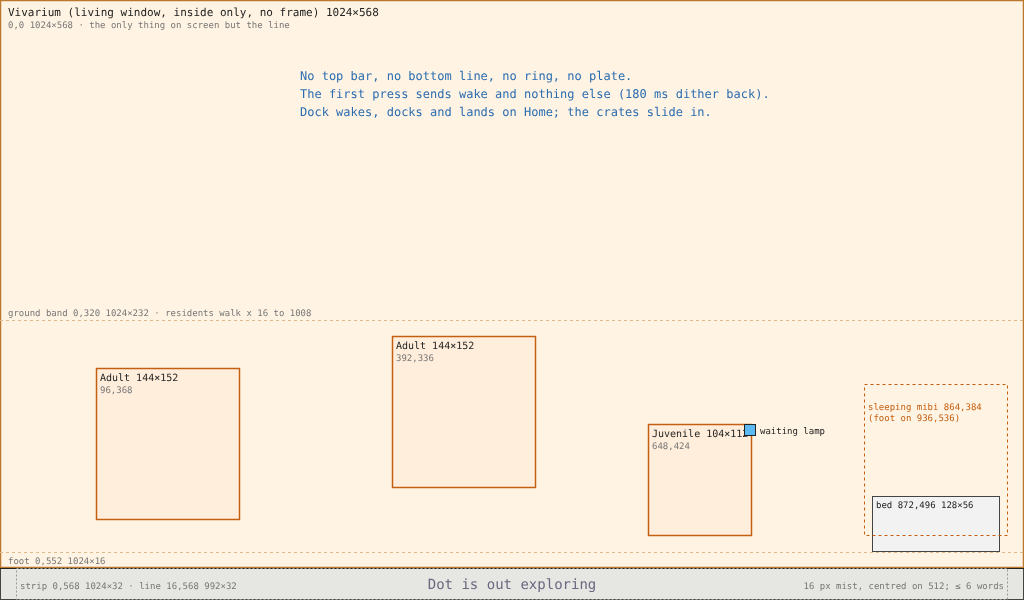
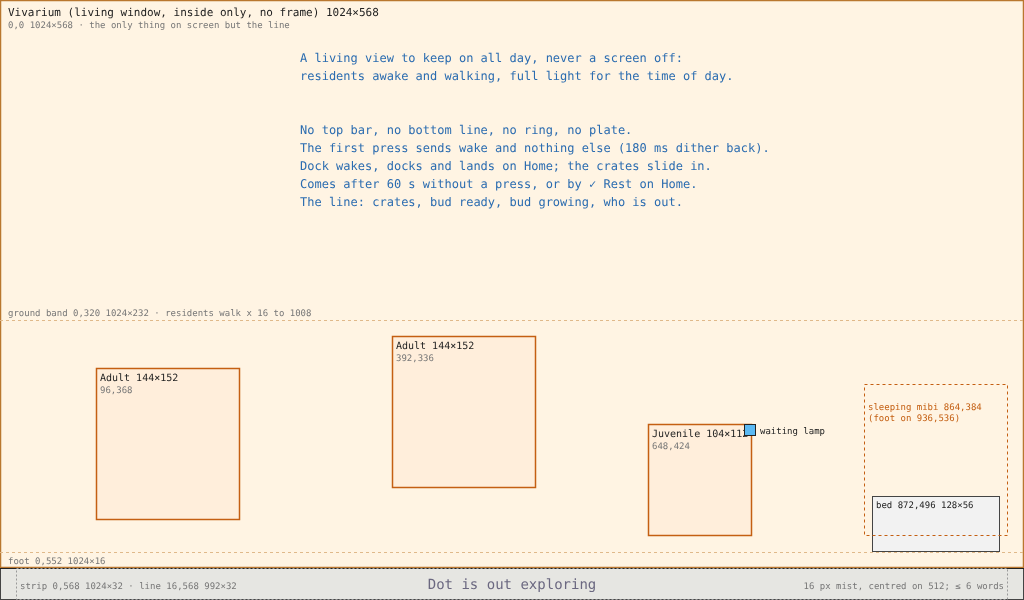
L2.2 spec, pass 2: the owner's answers written in as decided (the structure; ◀ on a resident to the nearest one on its left; the 60 s idle timer; the order of Idle's line) and taken out of the open questions; Idle stated as the living view kept on all day, never a screen off; the Home wireframe's co

Changed region(s): [[0.2812, 0.09, 0.75, 0.36]]

diff --git a/design/style-guide/station-layouts.md b/design/style-guide/station-layouts.md
@@ -193,7 +193,7 @@ The focused tab adds the focus ring in the `focus` role, in its tab shape (State
 
 ### The vocabulary (closed)
 
-The screen layer draws every screen from one closed set of words ([technical architecture §5.1](../proposals/technical-architecture.md)): frame, top bar, bottom line, message plate, focus ring, panel, stamp label, chapter rail, chapter page, list, specimen, living window, ribbon, Companion HUD, map viewport. A new word comes back to the UI designer and the architect. What a screen builds from them (decided by the UI designer, 2026-10-08, on Home):
+The LVGL face draws every screen from one closed set of words, one C module a word under the face's `vocab/`, shared with the Companion and the Caddy where they are common ([lvgl-switch.md §2.2](../proposals/lvgl-switch.md), after [technical architecture §5.1](../proposals/technical-architecture.md); *corrected, 2026-10-09: was "the screen layer", the JavaScript layer now deprecated*): frame, top bar, bottom line, message plate, focus ring, panel, stamp label, chapter rail, chapter page, list, specimen, living window, ribbon, Companion HUD, map viewport. A new word comes back to the UI designer and the architect. What a screen builds from them, bound in the face's `screens/` table (decided by the UI designer, 2026-10-08, on Home):
 
 - **Module** is a build of **panel**, not a new word: the instrument panel (`panel` fill, `hairline` edge, `bevel` top) holding one engraved word, one 12×12 lamp and its objects as sprites. Home's four modules are the only modules.
 - **Living window** is the existing word: a painted inside with no words in a `metal` frame. Home's vivarium is one, as are the Habitat window, the specimen chamber and the dome.
@@ -514,11 +514,11 @@ Concept plate: `art/concept-station/round3/A-r3-a1-1024x600.png`. Wireframe: [01
 
 *Home with the ring on a resident. Wireframe, layout only, measured, 1×. Status: Decided layout (2026-10-08), with the sleeping mibi and the Shield plates per tier.*
 
-**L2.2 spec** (UI designer, 2026-10-09 12:12, America/Mexico_City; **Proposal** until the owner checks the states and navigation). For the LVGL face ([lvgl-switch.md](../proposals/lvgl-switch.md) §3 to §4, L2.2): every drawn region names its word or composition, Home's three states (home, arrival, report), the rest knob, Home's focus as `order` and `nearestIn` data, [Dock and arrival](#dock-and-arrival) and [Idle](#idle). The numbers live in `prototypes/ui/specs/station/home.json` and, for Idle, `frame.json` `idle`. Each wireframe below has a 1× PNG beside its SVG for the owner's check.
+**L2.2 spec** (UI designer, 2026-10-09 12:12, America/Mexico_City). **Decided** (owner, 2026-10-09 12:20): the structure, the states and the navigation; the details (keys, sizes, timings, words) are the UI designer's, except the [open questions](#open-questions-for-l22) routed to the disciplines. For the LVGL face ([lvgl-switch.md](../proposals/lvgl-switch.md) §3 to §4, L2.2): every drawn region names its word or composition, Home's three states (home, arrival, report), the rest knob, Home's focus as `order` and `nearestIn` data, [Dock and arrival](#dock-and-arrival) and [Idle](#idle). The numbers live in `prototypes/ui/specs/station/home.json` and, for Idle, `frame.json` `idle`. Each wireframe below has a 1× PNG beside its SVG.
 
 <table><tr>
-<td valign="top"><img src="station-layouts/01e-home-rest.svg" width="480" alt="Home, Companion away, ring on the rest knob"><br><em>01e. Home with the Companion away and the ring on the rest knob: the Bay shut, the cradle empty, the Companion mark on the bed, `✓ Rest`. 1×, measured. Status: Proposal.</em></td>
-<td valign="top"><img src="station-layouts/01f-home-nav.svg" width="480" alt="Home's navigation map"><br><em>01f. Home, Rest, Dock and Idle: what opens first, what each key does, how ← returns, and how the states follow each other. 1×. Status: Proposal.</em></td>
+<td valign="top"><img src="station-layouts/01e-home-rest.svg" width="480" alt="Home, Companion away, ring on the rest knob"><br><em>01e. Home with the Companion away and the ring on the rest knob: the Bay shut, the cradle empty, the Companion mark on the bed, `✓ Rest`. 1×, measured. Status: Decided (owner, 2026-10-09 12:20).</em></td>
+<td valign="top"><img src="station-layouts/01f-home-nav.svg" width="480" alt="Home's navigation map"><br><em>01f. Home, Rest, Dock and Idle: what opens first, what each key does, how ← returns, and how the states follow each other. 1×. Status: Decided (owner, 2026-10-09 12:20).</em></td>
 </tr></table>
 
 ### 1. Purpose
@@ -532,7 +532,7 @@ Home is the always-on view: the collection alive, and the instrument's state. Th
 | **The vivarium** (the living window) with the residents | The collection alive; the reason the device is on |
 | **The with-you bed** | Shows where the mibi with you is: here or out with the Companion |
 | **Four modules**, each one word, a lamp and its object: Bay (crates), Rack (six wells), Incubator (dome and leaves), Probe (Probe, Shield plates, the sitting slot) | The instrument's state, read by shape; an amber lamp marks the one that needs you |
-| **Rest knob** | The deliberate way to rest the screen (idle) |
+| **Rest knob** | The deliberate way to put the Station on its living view, Idle, to stay on all day |
 | **Bottom line** | What needs you, in words, at the right; what ✓ does with the current focus |
 
 **Cut from the build:**
@@ -600,7 +600,7 @@ The vivarium's glass fills the left (16 to 672) in a thin bezel. The four module
 | Module: Incubator | 688, 304, 320, 120 | Lamp at (984, 316); dome 704, 328, 80, 80 with the bud's glow; leaves 800, 344, 192, 40 (8×12 each on a 12 px pitch, two rows of 16) |
 | Module: Probe | 688, 432, 320, 120 | Lamp at (984, 444); Probe in its cradle 704, 456, 128, 80; Shield plates 16×32 on a 24 px pitch at (848 + 24i, 480): three on a tier-1 Probe (848 to 912), four on tier 2 (848 to 936), each whole or gone, never a ghost for a plate the tier does not have; standing like the Companion's plates, centred on the cradle's middle (y 496), 16 px clear of the sitting slot at four (*decided by the UI designer, 2026-10-08, for the builder's open question*: was 3 × 28×12 at (848 + 36i, 496); four of those ran 36 px into the sitting slot); sitting slot 952, 456, 40, 80 (an empty gilt frame when a sitting is held) |
 
-**Regions and their words** (*L2.2, UI designer, 2026-10-09; Proposal*). Every drawn region names its word from the closed vocabulary (`component`) or the composition it is built as (`build`), so the face's spec loader can refuse anything else ([lvgl-switch.md](../proposals/lvgl-switch.md) §2.3, lint). States: **home** (at rest, docked or away), **arrival** (from `✓ Open the bay` to the last crate) and **report** (from the arrival's end to the next press). A region with "only in" exists in those states alone.
+**Regions and their words** (*L2.2, UI designer, 2026-10-09; structure Decided by the owner, 2026-10-09 12:20*). Every drawn region names its word from the closed vocabulary (`component`) or the composition it is built as (`build`), so the face's spec loader can refuse anything else ([lvgl-switch.md](../proposals/lvgl-switch.md) §2.3, lint). States: **home** (at rest, docked or away), **arrival** (from `✓ Open the bay` to the last crate) and **report** (from the arrival's end to the next press). A region with "only in" exists in those states alone.
 
 | Region (`home.json`) | Rectangle | Word or build | Only in | States it shows |
 | --- | --- | --- | --- | --- |
@@ -640,7 +640,7 @@ The card closes on the next press, and that press also does what it does: ✓ fo
 
 | Input | What happens, and how it shows |
 | --- | --- |
-| Pad | A fixed order (station-screens.md, Keys and navigation): ◀ ▶ between the residents (feet ellipse) and the instrument column; ▲ ▼ walk the column, Bay, Rack, Incubator, Probe, Rest (rounded rectangles). From the room, ▶ lands on the Bay and ◀ on the nearest resident (*corrected by the UI designer, 2026-10-09, the owner's decision on the navigation model*: was the nearest drawn thing that way). As data, [Home's focus graph](#homes-focus-as-data) below |
+| Pad | A fixed order (station-screens.md, Keys and navigation): ◀ ▶ between the residents (feet ellipse) and the instrument column, and ◀ among the residents to the nearest one on the left (**Decided**, owner, 2026-10-09 12:20); ▲ ▼ walk the column, Bay, Rack, Incubator, Probe, Rest (rounded rectangles). From the room, ▶ lands on the Bay and ◀ on the nearest resident (*corrected by the UI designer, 2026-10-09, the owner's decision on the navigation model*: was the nearest drawn thing that way). As data, [Home's focus graph](#homes-focus-as-data) below |
 | ✓ on the room (no focus) | Does what needs you: `✓ Open the bay · 2 crates`, `✓ Look at the new pod`, `✓ Open the incubator`, `✓ Meet Moss`. With nothing needed there is no ✓ cap |
 | ✓ on a resident | `✓ Look at Bean` opens Habitat on Bean. The sleeping mibi on the bed is one too |
 | ✓ on Bay | `✓ Open the bay · 2 crates` when docked with crates; otherwise no ✓ cap, and the subject says why ("closed while the Companion is away") |
@@ -650,28 +650,29 @@ The card closes on the next press, and that press also does what it does: ✓ fo
 | Any press while the report card shows | Closes the card and does what it does (above): ✓ follows the bottom line, the pad moves the ring, ← only closes it |
 | During arrival | Presses are consumed; focus stays on the room ([Dock and arrival](#dock-and-arrival)) |
 | Dock (the Caddy's key) | Never a Station key and never reaches the face. On Home the crates slide into the bay; elsewhere the screen stays and the crates wait in the bay; from Idle it wakes, docks and lands on Home ([Dock and arrival](#dock-and-arrival)) |
-| ← on a child of Home (*L2.2, Proposal*) | Home opens with the ring on what leads back to that child: Pods → Rack, the Incubator → Incubator, the Probe bench → Probe, Habitat → that resident if it is at home (else the room), the Library → the room. A room key or a jump into Home lands on the room |
+| ← on a child of Home (*L2.2, UI designer, 2026-10-09*) | Home opens with the ring on what leads back to that child: Pods → Rack, the Incubator → Incubator, the Probe bench → Probe, Habitat → that resident if it is at home (else the room), the Library → the room. A room key or a jump into Home lands on the room |
 
 ### Home's focus as data
 
-*L2.2, UI designer, 2026-10-09; Proposal.* `home.json` `focus` replaces `nav.mjs` `homeMove` with the two graph primitives of [lvgl-switch.md §2.6](../proposals/lvgl-switch.md#26-the-focus-graph). Targets: `resident.<mibi id>` in group `resident` (the sleeping mibi on the bed is one, without the lift), and `bay`, `rack`, `incubator`, `probe`, `knob` in group `column` (`knob` is frame.json `navigation.homePad`'s "rest"). The room is the ring on nothing: no ring drawn, its point roomAt's centre (512, 300).
+*L2.2, UI designer, 2026-10-09; ◀ on a resident **Decided** (owner, 2026-10-09 12:20).* `home.json` `focus` replaces `nav.mjs` `homeMove` with the two graph primitives of [lvgl-switch.md §2.6](../proposals/lvgl-switch.md#26-the-focus-graph). Targets: `resident.<mibi id>` in group `resident` (the sleeping mibi on the bed is one, without the lift), and `bay`, `rack`, `incubator`, `probe`, `knob` in group `column` (`knob` is frame.json `navigation.homePad`'s "rest"). The room is the ring on nothing: no ring drawn, its point roomAt's centre (512, 300).
 
 | From | ◀ | ▶ | ▲ | ▼ |
 | --- | --- | --- | --- | --- |
 | The room | `nearestIn: resident` | `bay` | none | none |
 | `column` (`order: [bay, rack, incubator, probe, knob]`) | `nearestIn: resident` | none | the previous in the order; the end stops | the next in the order; the end stops |
-| `resident` | none | `nearestIn: column` | `nearestIn: resident, ahead` | `nearestIn: resident, ahead` |
+| `resident` | `nearestIn: resident, ahead` (the nearest resident to its left; the leftmost stays) | `nearestIn: column` | `nearestIn: resident, ahead` | `nearestIn: resident, ahead` |
 
 - **`order`** steps through the list as written, skipping ids that are not targets now; never a wrap.
 - **`nearestIn: g`** lands on the target of group g whose box centre is nearest the ring's row: |dy| × 4 + |dx| × 0.01, centre to centre. An empty group leaves the ring where it is.
-- **`ahead`** (the residents' ▲ ▼) takes only the group's targets more than 6 px ahead in the key's direction, nearest by along + 2.2 × across, as `homeMove` does. It is a parameter of `nearestIn` that §2.6 does not name yet ([open question 1](#open-questions-for-l22)).
+- **◀ on a resident** goes to the nearest resident to its left; ▶ still crosses to the column (**Decided**, owner, 2026-10-09 12:20: was nothing, which could strand two residents at one height, neither 6 px ahead of the other by ▲ ▼). From the column, ◀ lands on the row-nearest resident, nearest the column, so every resident is reachable.
+- **`ahead`** (the residents' ▲ ▼ ◀) takes only the group's targets more than 6 px ahead in the key's direction, nearest by along + 2.2 × across, as `homeMove` does. It is a parameter of `nearestIn` that §2.6 does not name yet ([Q1](#open-questions-for-l22)).
 - **The Home key** on Home sets the focus to the room (`roomKey`). **Holds:** while the arrival or the rest plays, the face moves no focus and sends no intent. **The report card:** any key closes it and still does what it does.
 - **Rings:** a resident's ellipse under its feet (box width + 16 by 24, starting 8 px above the feet); a module's round ring 4 px outside its rectangle, with the 2 px chrome lift; the knob's ring is its 48×24 target, below.
-- **Vectors for the focus tests** (`nav.test.mjs`'s Home walk becomes these): room ▶ bay; bay ▲ bay; bay ▼ rack; probe ▼ knob; knob ▼ knob; knob ▶ knob; room ▲ room; room ◀ the resident nearest (512, 300) by row, or the room when no resident is home.
+- **Vectors for the focus tests** (`nav.test.mjs`'s Home walk becomes these): room ▶ bay; bay ▲ bay; bay ▼ rack; probe ▼ knob; knob ▼ knob; knob ▶ knob; room ▲ room; room ◀ the resident nearest (512, 300) by row, or the room when no resident is home; the leftmost resident ◀ itself; a resident ◀ the nearest of those more than 6 px to its left.
 
 ### The rest knob
 
-*L2.2, UI designer, 2026-10-09; Proposal.* **What it is for:** the deliberate way to rest the screen (Home §2). **What it shows:** a chrome knob on the bezel's bottom rail and nothing else; no word on the stage. Its states, in `home.json` `regions.knob.states`:
+*L2.2, UI designer, 2026-10-09.* **What it is for:** the deliberate way to put the Station on its living view, [Idle](#idle) (Home §2). **What it shows:** a chrome knob on the bezel's bottom rail and nothing else; no word on the stage. Its states, in `home.json` `regions.knob.states`:
 
 | State | Knob | Ring | Bottom line |
 | --- | --- | --- | --- |
@@ -716,13 +717,13 @@ All stand-ins until the Home and bench masters.
 
 A state of Home, not a screen of its own: the same layout, with the bay leading. Wireframes: [01b-home-docked.svg](station-layouts/01b-home-docked.svg), [01c-home-arrival.svg](station-layouts/01c-home-arrival.svg), [01d-home-report.svg](station-layouts/01d-home-report.svg), each with its 1× PNG.
 
-**L2.2 spec** (UI designer, 2026-10-09 12:13, America/Mexico_City; **Proposal** until the owner checks the states and navigation). The numbers live in `home.json` (`regions.bay`, `travel`, `ribbon`, `report`, `events.crateIn`, `events.arrival`).
+**L2.2 spec** (UI designer, 2026-10-09 12:13, America/Mexico_City). **Decided** (owner, 2026-10-09 12:20): the structure, the states and the navigation; the details (keys, sizes, timings, words) are the UI designer's, except the [open questions](#open-questions-for-l22) routed to the disciplines. The numbers live in `home.json` (`regions.bay`, `travel`, `ribbon`, `report`, `events.crateIn`, `events.arrival`).
 
 <table><tr>
-<td valign="top"><img src="station-layouts/01b-home-docked.svg" width="480" alt="Home, docked with two crates"><br><em>01b. Docked: two sealed crates slid into the open bay, the Bay's lamp amber, the ring on the room, `✓ Open the bay`. 1×, measured. Status: Proposal.</em></td>
-<td valign="top"><img src="station-layouts/01c-home-arrival.svg" width="480" alt="Home, the arrival"><br><em>01c. The arrival, the first crate opening: the Bay lifted 2 px, the beam behind the crate, a pod travelling to its well, the ribbon in the glass, the residents facing the bay, input held. 1×, measured. Status: Proposal.</em></td>
+<td valign="top"><img src="station-layouts/01b-home-docked.svg" width="480" alt="Home, docked with two crates"><br><em>01b. Docked: two sealed crates slid into the open bay, the Bay's lamp amber, the ring on the room, `✓ Open the bay`. 1×, measured. Status: Decided (owner, 2026-10-09 12:20).</em></td>
+<td valign="top"><img src="station-layouts/01c-home-arrival.svg" width="480" alt="Home, the arrival"><br><em>01c. The arrival, the first crate opening: the Bay lifted 2 px, the beam behind the crate, a pod travelling to its well, the ribbon in the glass, the residents facing the bay, input held. 1×, measured. Status: Decided (owner, 2026-10-09 12:20).</em></td>
 </tr><tr>
-<td valign="top"><img src="station-layouts/01d-home-report.svg" width="480" alt="Home, the report card"><br><em>01d. The report card at its fullest (three crates, the Probe row, three world lines), 64, 120, 560×312, until the next press. 1×, measured. Status: Proposal.</em></td>
+<td valign="top"><img src="station-layouts/01d-home-report.svg" width="480" alt="Home, the report card"><br><em>01d. The report card at its fullest (three crates, the Probe row, three world lines), 64, 120, 560×312, until the next press. 1×, measured. Status: Decided (owner, 2026-10-09 12:20).</em></td>
 <td></td>
 </tr></table>
 
@@ -810,17 +811,17 @@ The overview's hardware: Home §4's colour roles, unchanged. The beam is the arr
 
 ## Idle
 
-The Station at rest. A state of the frame (`props.idle`), not a screen: the screen under it keeps its state and focus. Wireframe: [10-idle.svg](station-layouts/10-idle.svg) and its 1× PNG.
+The Station's living view, kept on all day. A state of the frame (`props.idle`), not a screen: the screen under it keeps its state and focus. Wireframe: [10-idle.svg](station-layouts/10-idle.svg) and its 1× PNG.
 
-**L2.2 spec** (UI designer, 2026-10-09 12:13, America/Mexico_City; **Proposal** until the owner checks the states and navigation). The numbers live in `prototypes/ui/specs/station/frame.json` `idle`.
+**L2.2 spec** (UI designer, 2026-10-09 12:13, America/Mexico_City). **Decided** (owner, 2026-10-09 12:20): the structure, the states and the navigation; the details (keys, sizes, timings, words) are the UI designer's, except the [open questions](#open-questions-for-l22) routed to the disciplines. The numbers live in `prototypes/ui/specs/station/frame.json` `idle`.
 
 <img src="station-layouts/10-idle.svg" width="720" alt="Idle wireframe">
 
-*10. Idle: the vivarium full screen, the residents and the with-you bed, and one line on a 32 px strip at the foot; no frame, no ring. 1×, measured. Status: Proposal.*
+*10. Idle: the vivarium full screen, the residents and the with-you bed, and one line on a 32 px strip at the foot; no frame, no ring. 1×, measured. Status: Decided (owner, 2026-10-09 12:20).*
 
 ### 1. Purpose
 
-The Station at rest, always on (Station screens, Idle). **Reads first:** the residents. The player at a distance sees the pets at ease and nothing asking for them.
+A view the Station can show permanently: the vivarium, something alive and worth looking at all day, when nobody is using the instrument (Station screens, Idle; the owner, 2026-10-09 12:20: "idle doesn't mean screen off, means a view that can be shown permanently, vivarium or something interesting to look at"). It is never a screen off, a sleep or a screensaver: the residents are awake and keep their routines, the light is the vivarium's own full light for the time of day, nothing is dimmed, blanked or darkened, and nothing counts down. **Reads first:** the residents. The player at a distance sees the pets at ease and nothing asking for them.
 
 ### 2. Elements
 
@@ -841,7 +842,7 @@ The Station at rest, always on (Station screens, Idle). **Reads first:** the res
 
 ### 4. Art direction
 
-The vivarium only: the warm field fills the screen, its light following the time of day (day, dusk, night, a master per light); at night a soft cool moonlight and the residents' own glows. The strip is chrome, cool and quiet: `ground` with a 1 px `void` rule on its top edge, the line in `mist`. Nothing blinks; the waiting lamp may still show on a resident, steady. Until the master, the placeholder is Home's plate at Idle's size: back `forest`, ground band `clay` with a `sand` top row, the foot `soil`.
+The vivarium only: the warm field fills the screen, its light following the time of day (day, dusk, night, a master per light), never dimmed or darkened for being idle; at night a soft cool moonlight and the residents' own glows. The strip is chrome, cool and quiet: `ground` with a 1 px `void` rule on its top edge, the line in `mist`. Nothing blinks; the waiting lamp may still show on a resident, steady. Until the master, the placeholder is Home's plate at Idle's size: back `forest`, ground band `clay` with a `sand` top row, the foot `soil`.
 
 ### 5. Composition
 
@@ -853,14 +854,14 @@ The vivarium only: the warm field fills the screen, its light following the time
 | `strip` | 0, 568, 1024, 32 | panel, build `idleLine` | 1 px `void` rule on its top edge |
 | `line` | 16, 568, 992, 32 | build `idleLine` | 16 px regular, `mist`, centred on x 512 and on y 584; one line, six words or fewer, no digits |
 
-**The line** is one sentence, the copywriter's slot, never dot-joined parts (the frame's rule): "Dot is out exploring", "two crates wait in the bay", "a bud is growing", "the bud is ready". Which one shows when several hold is [open question 6](#open-questions-for-l22).
+**The line** is one sentence, the copywriter's slot, never dot-joined parts (the frame's rule): "Dot is out exploring", "two crates wait in the bay", "a bud is growing", "the bud is ready". When several hold, the first of these shows: crates in the bay, the bud ready, a bud growing, who is out with the Companion; when none holds the line is empty. Never a demand: nothing nags (**Decided**, owner, 2026-10-09 12:20).
 
 ### 6. Interactions
 
 | Input | What happens, and how it shows |
 | --- | --- |
 | ✓ on the rest knob (Home) | The knob settles (200 ms), then the screen transition, 180 ms, the 16-level Bayer dither, to Idle; held 380 ms |
-| The idle timer (any screen) | The same transition to Idle, never during a hold, an arrival or a report card ([open question 5](#open-questions-for-l22)) |
+| The idle timer (any screen) | After 60 s without a press, the same transition to Idle; never during a hold, an arrival or a report card (**Decided**, owner, 2026-10-09 12:20; the build's `IDLE_MS`) |
 | Any key on Idle (the first press) | Sends `wake` and nothing else: the transition back (180 ms, held), to the screen under Idle with its focus as it was. Nothing opens, nothing moves, nothing is spent, and waking never rewards |
 | Dock (the Caddy's key) | Wakes, docks and lands on Home with the ring on the room; the crates then slide in ([Dock and arrival](#dock-and-arrival)) |
 | Dock while docked | Wakes and lifts the Companion; the screen under Idle shows |
@@ -886,18 +887,21 @@ The vivarium only: the warm field fills the screen, its light following the time
 
 ## Open questions for L2.2
 
-Numbered, each with the UI designer's recommendation (2026-10-09). The owner, or the discipline named, decides.
+Each with the UI designer's recommendation (2026-10-09); the discipline named decides, and the owner only where structure or purpose is at stake. The numbers are kept from the first pass: Q2 (◀ on a resident), Q5 (the idle timer) and Q6 (Idle's line) were decided by the owner, 2026-10-09 12:20, and are written into Home's focus and Idle above.
 
-1. **`nearestIn` needs a direction filter (architect).** The residents' ▲ ▼ go to the nearest resident *that way* (homeMove: more than 6 px ahead, along + 2.2 × across); §2.6 defines `nearestIn` as row-nearest only. *Recommended:* add `ahead: true` as a parameter of `nearestIn` in §2.6 and the C focus port, as `home.json` writes it. No new primitive.
-2. **◀ on a resident does nothing (owner, navigation).** Two residents at the same height cannot reach each other by ▲ ▼ (neither is 6 px ahead), so a resident can be stranded until it walks. *Recommended:* ◀ on a resident goes to `nearestIn: resident, ahead` (the nearest to its left); ▶ still crosses to the column. From the column ◀ lands on the row-nearest resident, nearest the column, so every resident is reachable.
-3. **The ribbon's length (copywriter).** "{crate} home · {reach}" runs to eight words ("First crate home · most of the land explored"), over the six-word rule on the stage. *Recommended:* the ribbon says "{crate} home" (three words) and the reach stays on the report card; or reach words of three or fewer ("a first look", "half explored", "mostly explored", "all explored") on both.
-4. **The Incubator's and the Probe's words touch their objects (art director).** The word's 20 px line box at y 316 and y 444 runs to 336 and 464, over the dome (from 328) and the cradle (from 456); the ink meets the dome's top. *Recommended:* the dome to (704, 336, 80, 80); the cradle and the sitting slot to y 464, the plates to y 488, after the art director's look at the masters. Not changed in this spec, because the plates' decision and the wireframe test hold the current numbers.
-5. **The idle timer (owner).** The build rests after 60 s without a press (`game.mjs` `IDLE_MS`); no decided document says so. *Recommended:* record it: 60 s without a press, on any screen, never during a hold, an arrival or a report card.
-6. **What Idle's line says when several things hold (owner, copywriter).** *Recommended:* the most worth knowing, in this order: crates in the bay, the bud ready, a bud growing, who is out with the Companion; nothing else, and never a demand (nothing nags). Empty when none holds.
-7. **Pods that find no free well (game designer).** The rules keep them sealed and waiting. *Recommended:* they do not travel; they stay pictured in their crate's row on the report card, and Pods' waiting mark shows them, as today.
-8. **The Probe while away (game designer).** This spec draws the cradle empty and no plates while the Companion is away, as the build does, because the Probe is out with it. *Recommended:* confirm.
-9. **The status strip (architect).** lvgl-switch.md L2.2 lists "status strip" among the modules; Home §2 cut it (the modules show it by shape). *Recommended:* strike it from L2.2's scope.
-10. **Compositions for the binding table (architect).** No new word is needed. The compositions are `module` (with its part `travel`), `restKnob`, `withYouBed`, `reportCard` and, new, `idleLine` (a panel strip with one line of type). *Recommended:* add `idleLine` to `screens/`'s binding table as a composition, not a word.
+**Q1.** **`nearestIn` needs a direction filter (architect).** The residents' ▲ ▼ and, decided, ◀ go to the nearest resident *that way* (homeMove: more than 6 px ahead, along + 2.2 × across); §2.6 defines `nearestIn` as row-nearest only. *Recommended:* add `ahead: true` as a parameter of `nearestIn` in §2.6 and the C focus port, as `home.json` writes it. No new primitive.
+
+**Q3.** **The ribbon's length (copywriter).** "{crate} home · {reach}" runs to eight words ("First crate home · most of the land explored"), over the six-word rule on the stage. *Recommended:* the ribbon says "{crate} home" (three words) and the reach stays on the report card; or reach words of three or fewer ("a first look", "half explored", "mostly explored", "all explored") on both.
+
+**Q4.** **The Incubator's and the Probe's words touch their objects (art director).** The word's 20 px line box at y 316 and y 444 runs to 336 and 464, over the dome (from 328) and the cradle (from 456); the ink meets the dome's top. *Recommended:* the dome to (704, 336, 80, 80); the cradle and the sitting slot to y 464, the plates to y 488, after the art director's look at the masters. Not changed in this spec, because the plates' decision and the wireframe test hold the current numbers.
+
+**Q7.** **Pods that find no free well (game designer).** The rules keep them sealed and waiting. *Recommended:* they do not travel; they stay pictured in their crate's row on the report card, and Pods' waiting mark shows them, as today.
+
+**Q8.** **The Probe while away (game designer).** This spec draws the cradle empty and no plates while the Companion is away, as the build does, because the Probe is out with it. *Recommended:* confirm.
+
+**Q9.** **The status strip (architect).** lvgl-switch.md L2.2 lists "status strip" among the modules; Home §2 cut it (the modules show it by shape). *Recommended:* strike it from L2.2's scope.
+
+**Q10.** **Compositions for the binding table (architect).** No new word is needed. The compositions are `module` (with its part `travel`), `restKnob`, `withYouBed`, `reportCard` and, new, `idleLine` (a panel strip with one line of type). *Recommended:* add `idleLine` to `screens/`'s binding table as a composition, not a word.
 
 ---
 

diff --git a/design/style-guide/sign-off.md b/design/style-guide/sign-off.md
@@ -99,7 +99,7 @@ Judged a third time, after the placeholder pods were placed (the code of ebfb3b8
 
 ### Section 3, the Station frame on the LVGL face (L1, L1b): by the builder
 
-The frame (top bar, bottom line, message plate, focus ring) and the slanted chapter rail, drawn by LVGL 9.6 behind `?face=lvgl`; the JavaScript page is the default, and its chrome changes with this stage: every screen on it now draws the one frame from the frame spec (the title and room-mark slot, the counters, the bottom line with its zones and hairlines at x 404 and 620, the message plate) through the same scene nodes as the face; the old per-screen top bar and bottom line are deleted, and the Companion's words and the dots between the bottom line's groups are gone with them. Captures: `prototypes/face/img/l1-*.png` (the frame, the plate, the counter's tick; the canvas renderer's frame beside the face's) and `l1b-rail*.png` (the rail, the ring on a tab).
+The frame (top bar, bottom line, message plate, focus ring) and the slanted chapter rail, drawn by LVGL 9.6. At this stage the face sat behind `?face=lvgl` and the JavaScript page was the default (*corrected, 2026-10-09: the default face is now decided per screen, [lvgl-switch.md](../proposals/lvgl-switch.md) §6 Q1 (a): each screen switches to the LVGL face as soon as it passes its gate, and its JavaScript drawing is deleted then; a screen not yet moved stays on the JavaScript page until its milestone*). The JavaScript page's chrome changed with this stage: every screen on it now draws the one frame from the frame spec (the title and room-mark slot, the counters, the bottom line with its zones and hairlines at x 404 and 620, the message plate) through the same scene nodes as the face; the old per-screen top bar and bottom line are deleted, and the Companion's words and the dots between the bottom line's groups are gone with them. Captures: `prototypes/face/img/l1-*.png` (the frame, the plate, the counter's tick; the canvas renderer's frame beside the face's) and `l1b-rail*.png` (the rail, the ring on a tab).
 
 | Art direction | Capabilities |
 | --- | --- |

diff --git a/design/style-guide/station-screens.md b/design/style-guide/station-screens.md
@@ -417,7 +417,7 @@ No wireframe; the layout reference is the sketch in the [Station screens proposa
 
 **Vibe.** Vivarium: the pets at ease, nothing asking for you.
 
-**Purpose.** The Station at rest, always on. **Reads first:** the residents.
+**Purpose.** A living view the Station can show permanently, always on: the vivarium, something worth looking at all day; never a screen off or a sleep (*clarified by the owner, 2026-10-09 12:20*: "idle doesn't mean screen off, means a view that can be shown permanently, vivarium or something interesting to look at"; was "The Station at rest, always on"). **Reads first:** the residents.
 
 - **Living window.** The whole screen: the vivarium at 1024×600, its light following the time of day, residents keeping their routines.
 - **Instrument.** Reduced to one status line on a thin cool strip at the foot ("Companion away · with Dot · an embryo is growing") and nothing else.
